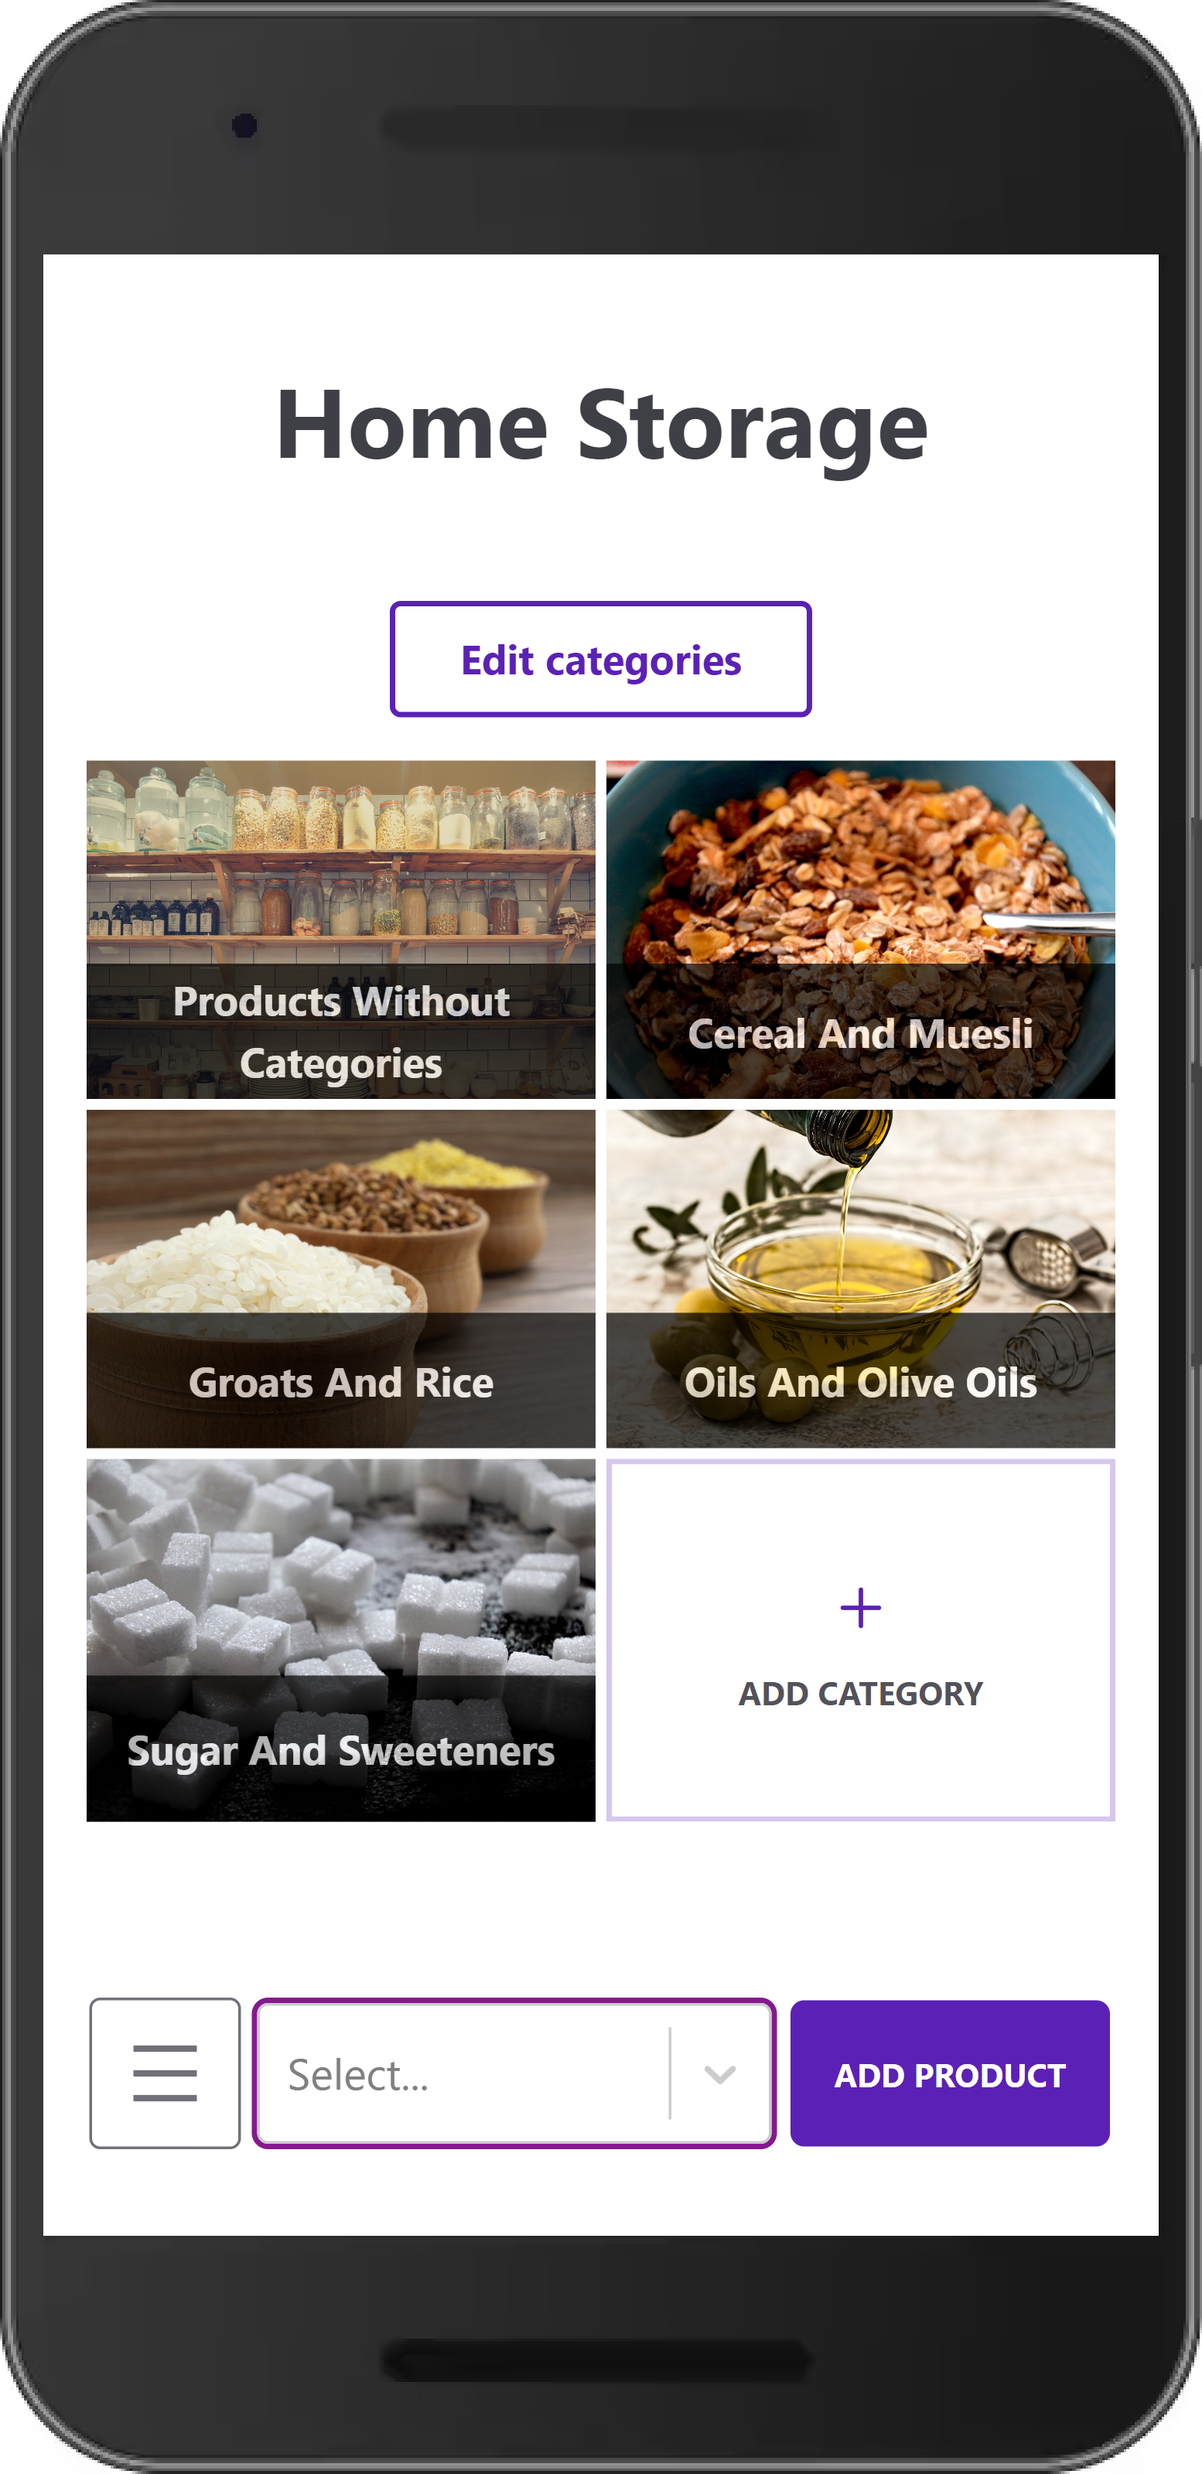
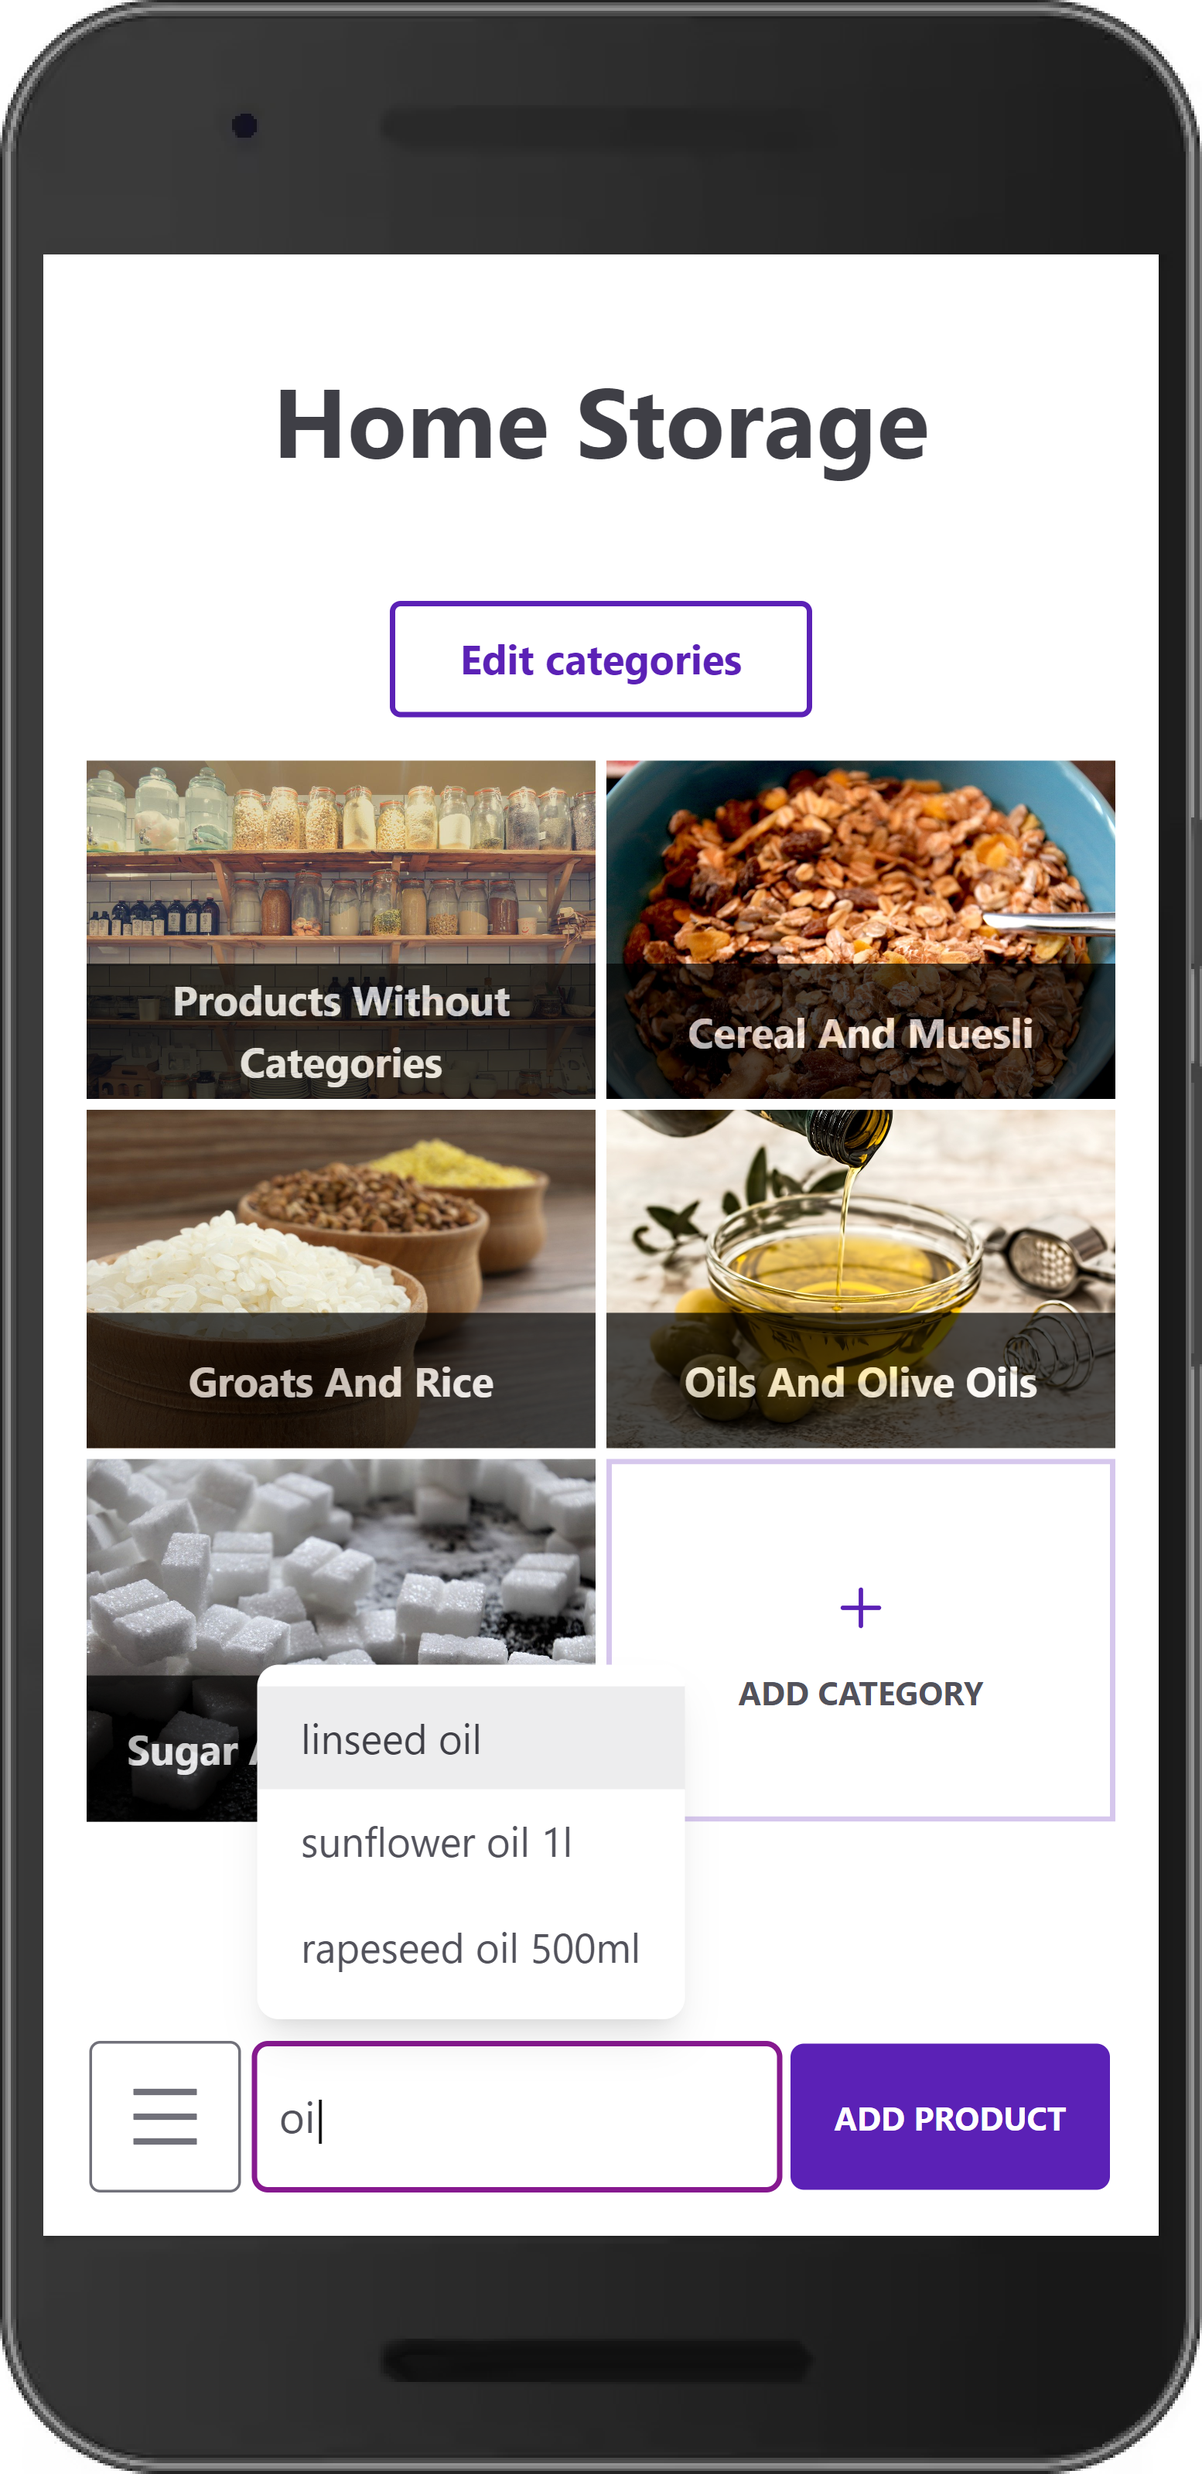
layout home page

Changed region(s): [[0.0927, 0.6499, 0.9266, 0.8975]]

diff --git a/src/features/categories/CategoryListScreenEn.tsx b/src/features/categories/CategoryListScreenEn.tsx
@@ -45,101 +45,32 @@ export const CategoryListScreenEn = () => {
     console.log(i18n.language)
 
     let user = useSelector(selectUser);
-    const [textFromInput, setTextFromInput] = useState("")
 
-    // const {isShown, handleShown, handleClose} = useModal()
-    // const modalAddHeader = "Dodaj nową kategorię"
-    // const modalEditHeader = "Edytuj kategorię"
-    // const [isOpen, setIsOpen] = useState<boolean>(false);
-    // const handleOpen = () => setIsOpen(true);
-    // const handleCloseGreeting = () => setIsOpen(false);
      const dispatch = useAppDispatch()
-    // const categoriesStatus = useAppSelector(((state) => state.categories.status))
+
     const categories = useAppSelector(selectAllCategoriesSortedByRequired)
-    // const closeModalWithGreeting = () =>{
-    //     console.log("close modal")
-    //     handleCloseGreeting();
-    //     dispatch(changeSeeGreetingToTrue(user as User))
-    // }
-    // useEffect(()=>{
-    //     if(didSee === false){
-    //         setIsOpen(true)
-    //     }
-    // },[user])
-    // let greeting =   <>
-    //     <Modal isShown={isOpen} hide={closeModalWithGreeting} modalHeaderText={""} modalContent={<><h1>{t("categories.CategoryList.modalWithGreeting_h1")}</h1><h2> {t("categories.CategoryList.modalWithGreeting_h1")}</h2>
-    //         <div
-    //             className="modal-footer flex flex-shrink-0 flex-wrap items-center justify-end p-4 rounded-b-md">
-    //             <button type="button" className="px-6
-    //       py-2.5
-    //       bg-purple
-    //       text-white
-    //       font-medium
-    //       text-xs
-    //       leading-tight
-    //       uppercase
-    //       rounded
-    //       shadow-md
-    //       hover:bg-purple-700 hover:shadow-lg
-    //       focus:bg-purple-700 focus:shadow-lg focus:outline-none focus:ring-0
-    //       active:bg-purple-800 active:shadow-lg
-    //       transition
-    //       duration-150
-    //       ease-in-out" data-bs-dismiss="modal" onClick={closeModalWithGreeting}>{t("buttons.closeModalWithGreeting")}
-    //             </button>
-    //         </div></>} />
-    // </>;
 
     useEffect(() => {
         dispatch(fetchCategories(user?.uid!!))
          dispatch(fetchImages(user?.uid!!))
-        // dispatch(fetchUserProducts(user?.uid!!))
-        // dispatch(fetchAllProducts())
+
     }, [user, dispatch])
     const[toggleSwitch, setToggleSwitch] = useState(false);
 
     const toggleEdit=()=>{
         setToggleSwitch(!toggleSwitch)
     }
-    //
-    // useEffect(()=> {
-    //     dispatch(currentCategoryChange(null))
-    // }, [dispatch])
-
-    // const chooseEditCategory = (category: Category) => {
-    //     handleShown()
-    //     let editingCategory = dispatch(currentCategoryChange(category))
-    //     console.log(editingCategory)
-    // }
-    // const deletingCategory = (category: Category) => {
-    //     dispatch(deleteCategory(category))
-    // }
-    //
-    const onChange=(e: any)=>{
-            dispatch(searchProduct(e.value))
-
-        }
-
-
-    const onInputChange=(e:string)=>{
-        setTextFromInput(e)
-    }
     let content;
-    // if (categoriesStatus === "loading") {
-    //     content = <Spinner text="Loading..." />;
-    // } else if (categoriesStatus === "succeeded") {
+
         const renderedCategories = categories?.map(category => (
 
             <li className={"h-auto flex flex-col relative" } key={category?.id}>
 
-                {/*<Link to={`/categories/${category?.path}`}  className={toggleSwitch? "pointer-events-none" : ""} >*/}
                     <img src={category?.url} className={"w-full h-auto object-cover flex-1 flex-grow"} alt="Louvre" />
 
                     <span
                         className={"absolute align-middle bottom-0 left-0 right-0 min-h-[40%] inline-flex items-center justify-center px-2 bg-black opacity-70  text-md sm:text-lg capitalize text-center text-white font-bold"+ (toggleSwitch?"hidden invisible":"")}>{category?.title}</span>
 
-                {/*</Link>*/}
-                {/*<span className={"absolute bottom-1/4 left-0 right-0 mx-auto capitalize text-center text-white font-bold text-md sm:text-lg"}>{category?.title}</span>*/}
             </li>
         ))
         content =
@@ -190,16 +121,6 @@ export const CategoryListScreenEn = () => {
         { value: 'rapeseed oil', label: 'rapeseed oil 500ml' },
         { value: 'linseed oil', label: 'linseed oil 1l' }
     ]
-    // interface SelectProps<
-    // Option = unknown,
-    // IsMulti extends boolean = false,
-    //  Group extends GroupBase<Option> = GroupBase<Option>>{}
-    // interface GroupBase<Option> {
-    //     readonly options: readonly Option[];
-    //     readonly label?: string;
-    // }
-    // @ts-ignore
-    // @ts-ignore
     return (
         <>
 
@@ -213,18 +134,8 @@ export const CategoryListScreenEn = () => {
                     {/*{<SearchInput2/>}*/}
 
                     <div className="flex flex-1 border-fuchsia-800 border-2 rounded-md mr-0.5">
-                        <span>oi</span>
-                        {/*<Select className = "react-select-container border-fuchsia-800 border-2 rounded-md "*/}
-                        {/*        menuPlacement={"top"}*/}
-                        {/*        classNamePrefix="react-select"*/}
-                        {/*        options={options}*/}
-                        {/*        defaultValue={"oi"}*/}
-                        {/*        onChange={onChange}*/}
-                        {/*        onInputChange={onInputChange}*/}
-
-                        {/*/>*/}
-                        {/*styles={singleSelectStyle(variant)}*/}
                         <div className=" w-full h-full ">
+                           <div className="absolute top-4 px-2 text-gray">oi<span className="text-black">|</span></div>
                             <ul
                                 className="
 
@@ -236,7 +147,7 @@ export const CategoryListScreenEn = () => {
           z-50
           float-left
           py-2
-          px-2
+
           list-none
           text-left
           rounded-lg

diff --git a/src/features/api/Home.tsx b/src/features/api/Home.tsx
@@ -13,13 +13,13 @@ const Home = () => {
         <>
             <header className="">
                 <nav
-                    className="navbar max-w-7xl w-full mx-auto h-40 fixed bg-white relative flex items-center justify-between z-50 top-0 left-0 font-courgette text-purple-800 flex-col md:flex-row">
+                    className="navbar max-w-7xl w-full mx-auto h-40 fixed bg-white relative flex items-center justify-between z-50 top-0 left-0 font-courgette text-purple-800 flex-row ">
                     <div className="px-6 ">
                         <div className="navbar-collapse collapse grow items-center w-full">
                             <ul className="navbar-nav mr-auto flex flex-col md:flex-row">
                                 <li className="nav-item">
                                     <a
-                                        className="nav-link block p-10 md:p-0 text-gray-400 text-2lg hover:text-gray-700 focus:text-gray-700 transition duration-150 ease-in-out "
+                                        className="nav-link block p-4 sm:p-10 md:p-10 text-gray-400 text-2lg hover:text-gray-700 focus:text-gray-700 transition duration-150 ease-in-out "
                                         href="#!"
                                         data-mdb-ripple="true"
                                         data-mdb-ripple-color="light"
@@ -32,12 +32,14 @@ const Home = () => {
                     </div>
                     <div className="px-6 flex align-middle font-noto-sans">
                         <button type="button"
-                                className=" inline-block px-6 py-2 mr-1 text-gray-light text-base font-bold leading-10 hover:border-b-2 hover:border-b-purple hover:border-opacity-50 focus:outline-none focus:ring-0 transition duration-150 ease-in-out md:text-md lg:text-lg "
+                                className=" inline-block bg-purple-800 text-white px-3 py-2.5 text-md rounded-md leading-tight shadow-md hover:bg-purple-900 hover:shadow-lg focus:bg-purple-900 focus:shadow-lg focus:outline-none focus:ring
+                                            sm:bg-white sm:border-0 sm:mr-1 sm:hover:border-b-2 sm:hover:border-b-purple sm:hover:border-opacity-50 sm:focus:outline-none sm:focus:ring-0 sm:transition duration-150 ease-in-out sm:rounded-0 sm:shadow-0 sm:text-gray-light sm:hover:bg-white  sm:focus:bg-white sm:focus:shadow-0 sm:focus:outline-none sm:focus:ring
+                                            md:text-md lg:text-lg "
                         ><Link to="/login">{t("button_logIn")}</Link>
                         </button>
                         <button
                             type="button"
-                            className="inline-block px-6 py-2.5 bg-purple-800 text-white text-base md:text-md lg:text-lg font-bold leading-tight rounded-2xl shadow-md hover:bg-purple-900 hover:shadow-lg focus:bg-purple-900 focus:shadow-lg focus:outline-none focus:ring-0 active:bg-purple-800 active:shadow-lg transition duration-150 ease-in-out"
+                            className="inline-block px-6 py-2.5 bg-purple-800 text-white text-base md:text-md lg:text-lg font-bold leading-tight rounded-2xl shadow-md hover:bg-purple-900 hover:shadow-lg focus:bg-purple-900 focus:shadow-lg focus:outline-none focus:ring active:bg-purple-800 active:shadow-lg transition duration-150 ease-in-out hidden md:block"
                             data-mdb-ripple="true"
                             data-mdb-ripple-color="light"
                         ><Link to="/register">{t("button_register")}</Link>
@@ -45,6 +47,7 @@ const Home = () => {
 
                     </div>
                 </nav>
+
 
                 <div
                     className="relative flex flex-col items-center justify-center w-full  max-w-6xl mx-auto pt-12 font-noto-sans md:flex-row lg:flex-row">

diff --git a/src/App.tsx b/src/App.tsx
@@ -1,8 +1,8 @@
 import React, {useEffect, Suspense} from "react";
-import {useDispatch, useSelector} from 'react-redux';
-import {auth, signOut, onAuthStateChanged, signInWithPopup, db, GoogleAuthProvider } from './firebase';
+import {useDispatch} from 'react-redux';
+import {auth, onAuthStateChanged, db, GoogleAuthProvider } from './firebase';
 
-import {selectUser, login, logout, User} from "./features/users/usersSlice";
+import { login, logout, User} from "./features/users/usersSlice";
 import {
     Routes,
     Route,
@@ -12,7 +12,6 @@ import {
 
 import Loading from "./component/Loading";
 import CategoryList from "./features/categories/CategoryList";
-import CategoryListScreenEn from "./features/categories/CategoryListScreenEn"
 import LoginPage from "./features/users/LoginPage";
 import RemindPassword from "./features/users/RemindPassword";
 import ProductsList from "./features/products/ProductsList";
@@ -22,7 +21,7 @@ import Home from "./features/api/Home";
 import './App.css';
 import {initializeApp} from "firebase/app";
 import {firebaseConfig} from './firebase';
-import {ToastContainer} from "react-toastify";
+
 import CategoryPage from "./features/categories/CategoryPage";
 import {library} from '@fortawesome/fontawesome-svg-core'
 import {fas} from '@fortawesome/free-solid-svg-icons'
@@ -37,7 +36,7 @@ function App() {
     const navigate = useNavigate()
     const dispatch = useDispatch();
     const location = useLocation()
-    const provider = new GoogleAuthProvider();
+
 
     let content;
     console.log(location)
@@ -59,10 +58,7 @@ function App() {
             let doExist = docSnap.exists()
             let result = docSnap.data() as User
             console.log(doExist)
-            // let result = await signInWithPopup(auth, provider)
-            // // This gives you a Google Access Token. You can use it to access the Google API.
-            //
-            // const user = result.uid;
+
 
             if (!doExist) {
                 content =
@@ -102,7 +98,7 @@ function App() {
                     <Route path="/register" element={<RegisterPage/>}/>
                     <Route path="/remindPassword" element={<RemindPassword/>}/>
                     :
-                    <Route path="/categories" element={<CategoryListScreenEn/>}/>
+                    <Route path="/categories" element={<CategoryList/>}/>
                     <Route path="/categories/:categoryPath" element={<CategoryPage/>}/>
                     <Route path="/products" element={<ProductsList/>}/>
                     <Route path="/search" element={<SearchUserProductPage/>}/>

diff --git a/src/features/categories/categoriesSlice.tsx b/src/features/categories/categoriesSlice.tsx
@@ -70,11 +70,15 @@ export const fetchCategories = createAsyncThunk('categories/fetchCategories', as
         }
     }
 )
-
-export const addNewCategory = createAsyncThunk<Category,Category>("categories/addNewCategory",
-    async (newCategory: Category) => {
-            let result = await addDoc(collection(db, "users/" + newCategory.user + "/categories"), newCategory);
-            return {...newCategory, id: result.id} as Category
+export type AddNewCategoryParams = {
+    category: Category
+    notify: boolean
+}
+export const addNewCategory = createAsyncThunk<AddNewCategoryParams,AddNewCategoryParams>("categories/addNewCategory",
+    async (addNewCategoryParams: AddNewCategoryParams) => {
+            let result = await addDoc(collection(db, "users/" + addNewCategoryParams.category.user + "/categories"), addNewCategoryParams.category);
+            const newCategory = {...addNewCategoryParams.category, id: result.id} as Category
+            return {"category":newCategory, "notify": addNewCategoryParams.notify}
 
     }
 )
@@ -130,8 +134,9 @@ const categoriesSlice = createSlice({
                 state.error = action.error.message
             })
             .addCase(addNewCategory.fulfilled, (state, action) =>{
-                categoriesAdapter.addOne(state, action.payload)
-                notify("Nowa kategoria została dodana!")
+                categoriesAdapter.addOne(state, action.payload.category)
+                if(action.payload.notify)
+                    notify("Nowa kategoria została dodana!")
             } )
             .addCase(editCategory.fulfilled, (state, action)=>{
                 categoriesAdapter.setOne(state, action.payload)

diff --git a/src/features/categories/AddCategoryForm.tsx b/src/features/categories/AddCategoryForm.tsx
@@ -5,7 +5,7 @@ import {useAppDispatch, useAppSelector} from "../../app/store";
 import {Modal} from "../../component/Modal/Modal";
 import {useModal} from "../../component/Modal/UseModal";
 import {selectUser} from "../users/usersSlice";
-import {addNewCategory, Category} from "../categories/categoriesSlice"
+import {addNewCategory, AddNewCategoryParams, Category} from "../categories/categoriesSlice"
 
 import slugify from "slugify";
 import 'react-toastify/dist/ReactToastify.css';
@@ -61,9 +61,9 @@ const AddCategoryForm = ({closeAddCategoryModal}: AddCategoryFormProps) => {
                 required: "false"
             }
             setAddRequestStatus('pending')
-            dispatch(addNewCategory(newCategory))
+            dispatch(addNewCategory({category: newCategory, notify: true}))
                 .unwrap()
-                .then((originalPromiseResult: Category) => {
+                .then((originalPromiseResult: AddNewCategoryParams) => {
                     setTitle("")
                     setPickedImage("")
                     closeAddCategoryModal()

diff --git a/src/features/users/usersSlice.tsx b/src/features/users/usersSlice.tsx
@@ -76,7 +76,7 @@ export const addDefaultCategoriesToNewUser = createAsyncThunk<boolean, AddDefaul
             category.id = doc.id
             category.user = addDefaultCategoriesToNewUserProps.userId
             defaultCategories.push(category);
-            thunkApi.dispatch(addNewCategory(category))
+            thunkApi.dispatch(addNewCategory({category, notify: false}))
             console.log(doc.id, " => ", doc.data());
         })
     } catch{
